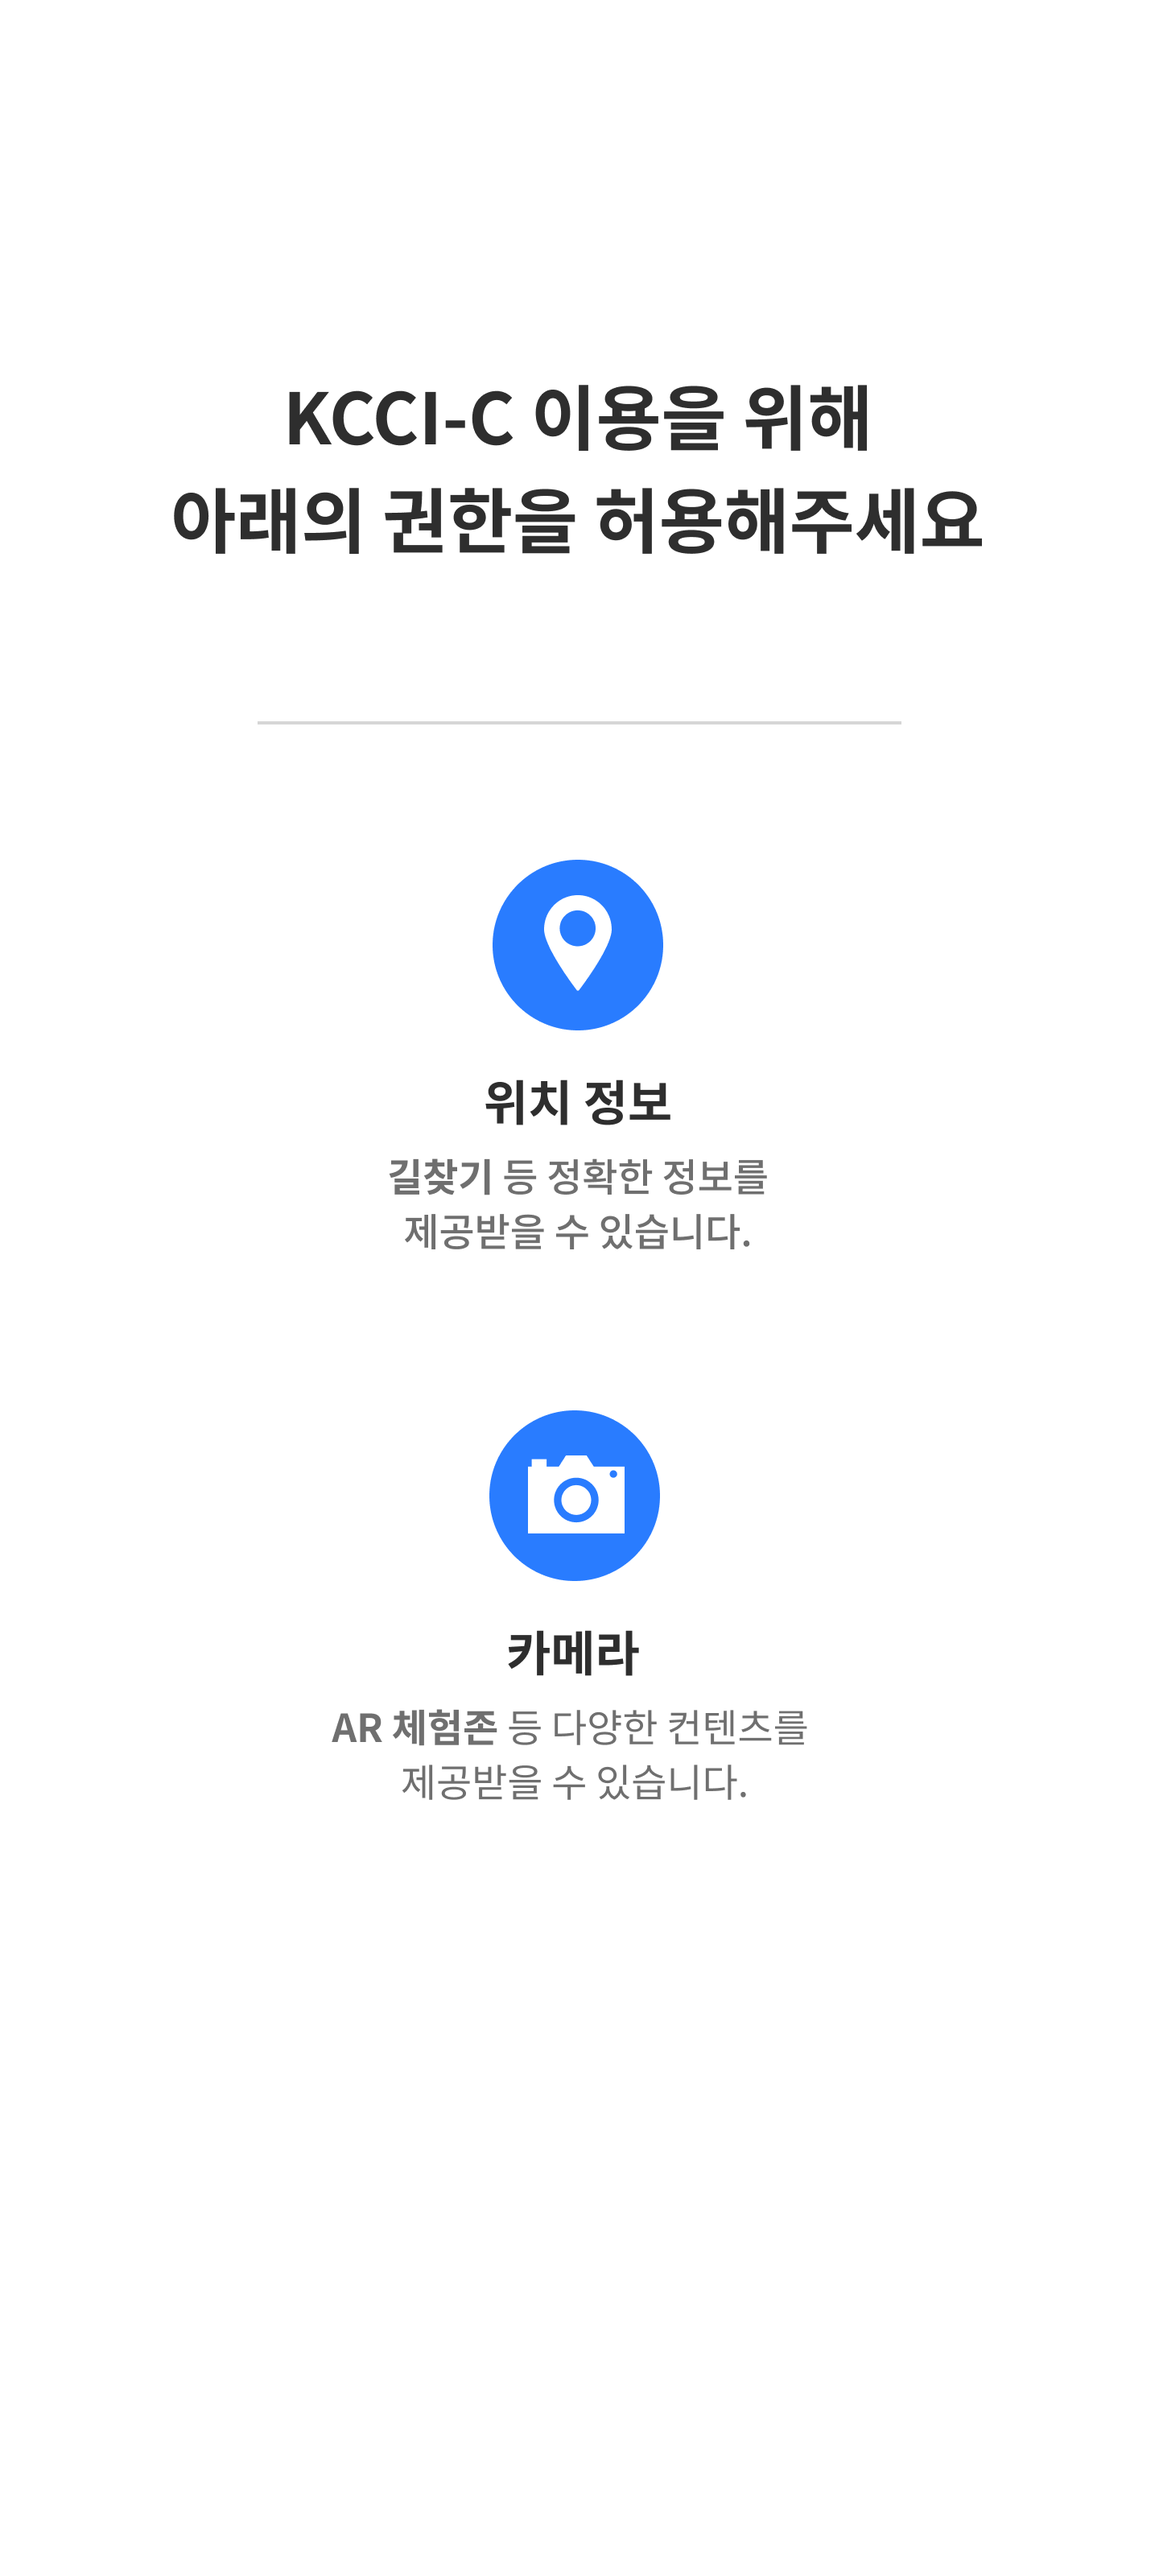
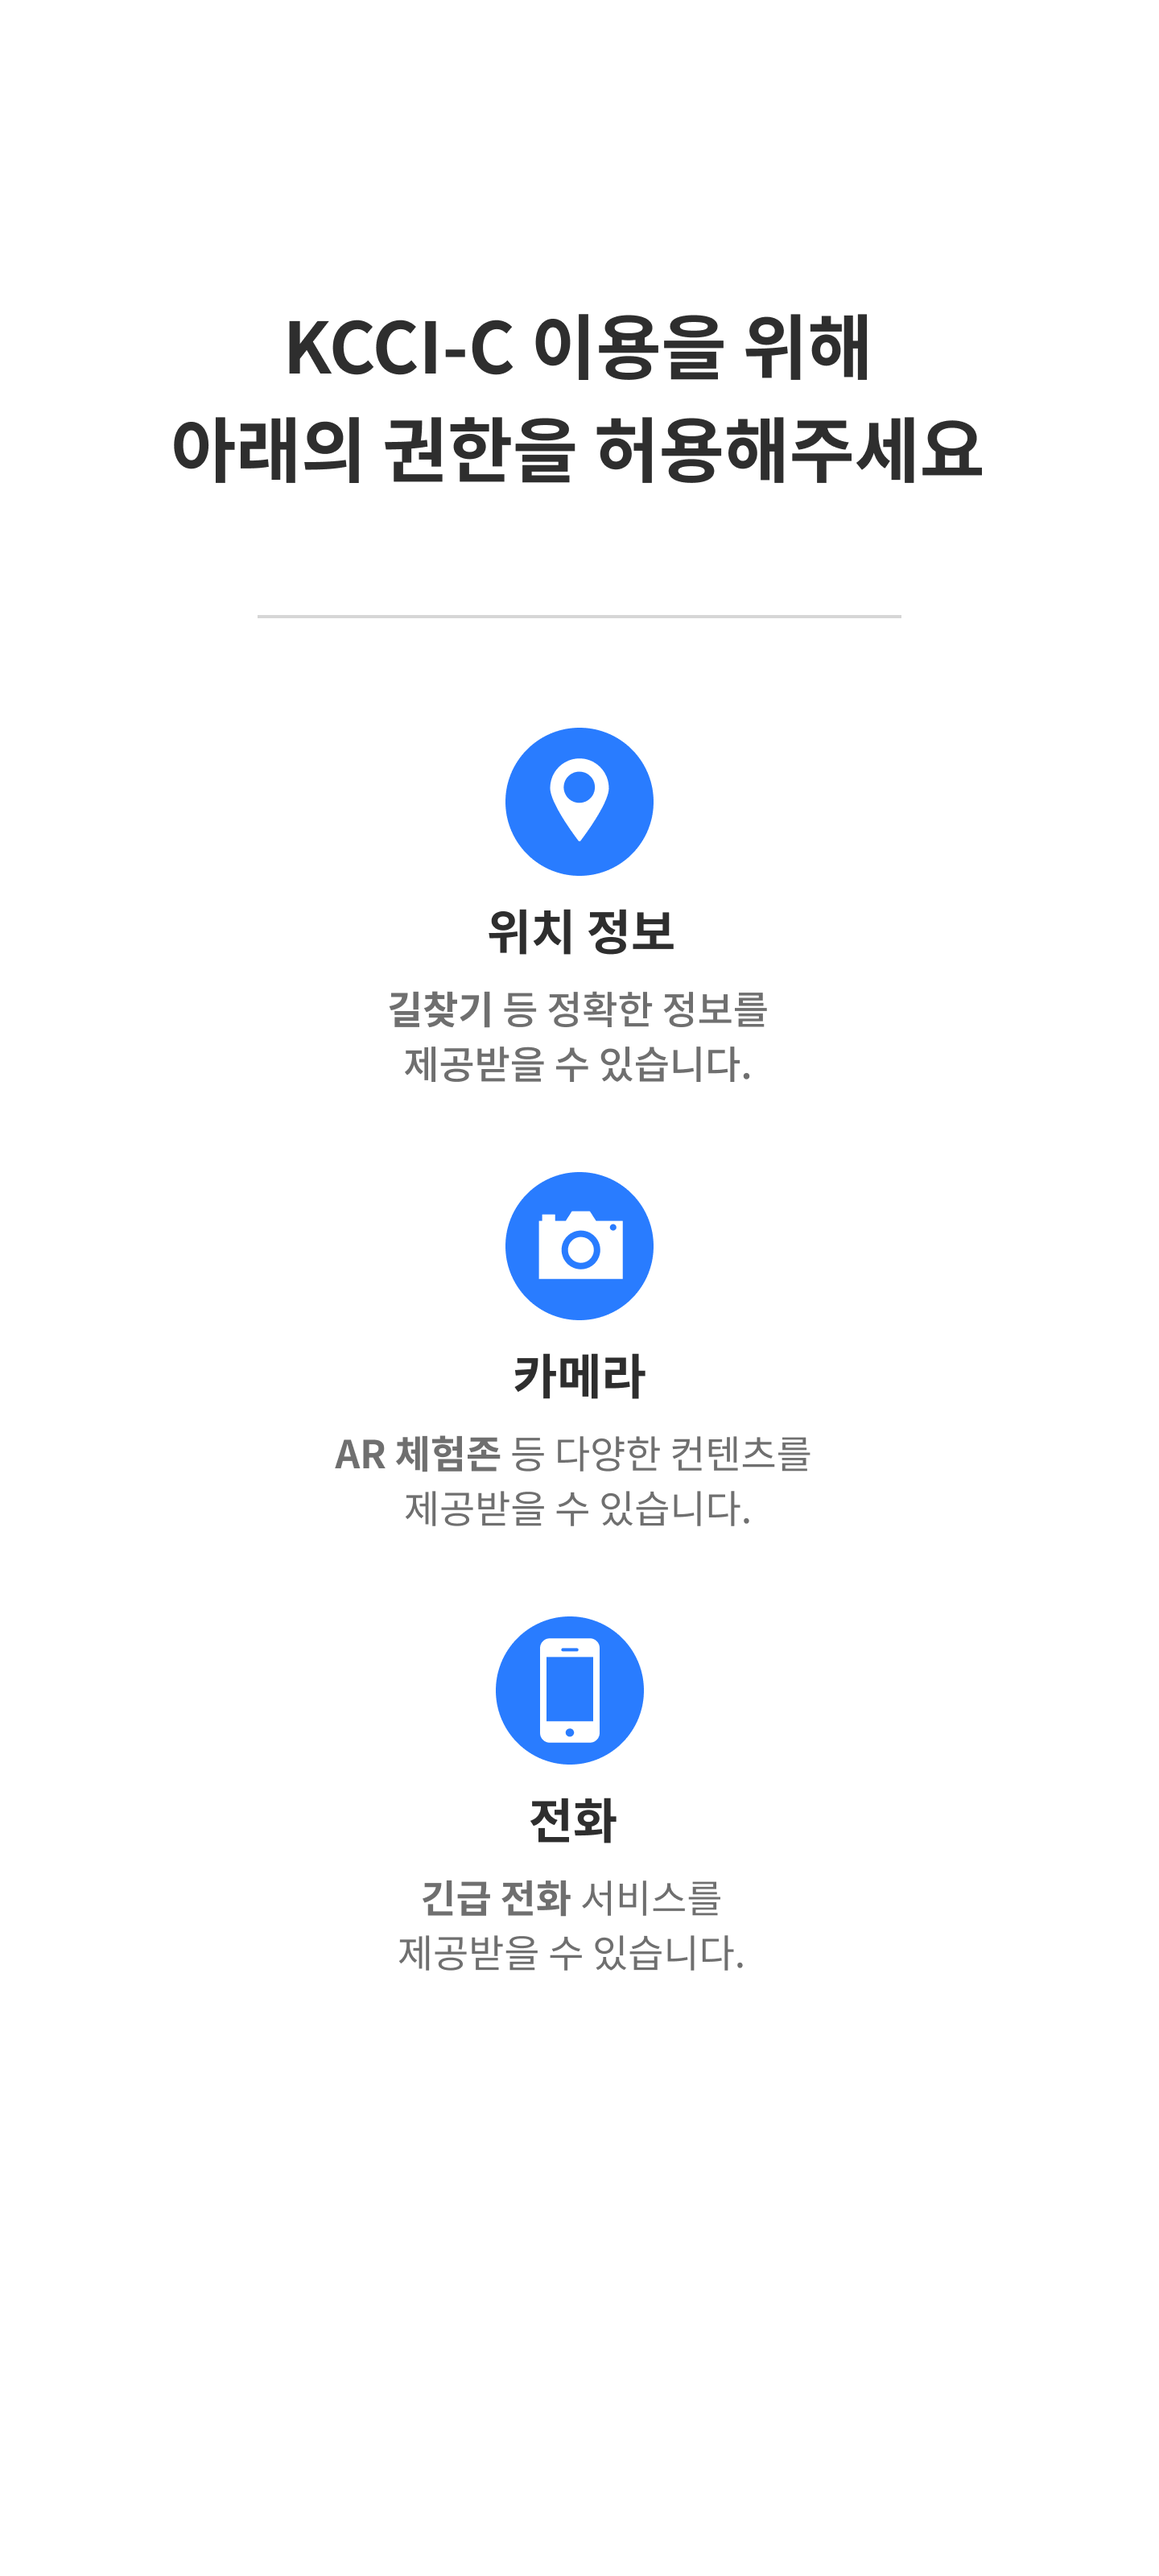
feat: Emergency Call Button

diff --git a/DirectionAR/Assets/Scripts/UI/ButtonMapping/UI_HeaderButton.cs b/DirectionAR/Assets/Scripts/UI/ButtonMapping/UI_HeaderButton.cs
@@ -3,6 +3,7 @@ using System.Collections.Generic;
 using UnityEngine;
 using System.Linq;
 using Unity.VisualScripting;
+using UnityEngine.Android;
 
 public class UI_HeaderButton : UI_Scene
 {
@@ -83,7 +84,7 @@ public class UI_HeaderButton : UI_Scene
         if (Managers.UI._popupStack.Count < 2)
         {
             Managers.UI.CloseAllPopupUI();
-            Managers.Resource.Destroy(GameObject.Find("Header"));
+            Managers.Resource.Destroy(GameObject.Find("Header")); 
             BaseScene.SceneType = Define.SceneType.Main;
         }
 
@@ -93,8 +94,17 @@ public class UI_HeaderButton : UI_Scene
     }
 
     void OnClickEmergencyButton()
-    {
-        Managers.Android.ShowAndroidToastMessage("EmergencyButton");
+    {        
+        bool callPermission = Permission.HasUserAuthorizedPermission(Define.Call.CallPermission);
+
+        if(!callPermission)
+        {
+            Managers.UI.ShowPopupUI<UI_Popup>("ConsentCallPopUp");
+        }
+        else
+        {
+            Managers.Android.EmergencyDialer(Define.Call.EmergencyNumber);
+        }
     }
 }
 

diff --git a/DirectionAR/Assets/Scripts/UI/ButtonMapping/UI_ConsentCallButton.cs b/DirectionAR/Assets/Scripts/UI/ButtonMapping/UI_ConsentCallButton.cs
@@ -5,7 +5,7 @@ using UnityEngine;
 using UnityEngine.Android;
 using UnityEngine.SceneManagement;
 
-public class UI_ConsentCameraButton : UI_Popup
+public class UI_ConsentCallButton : UI_Popup
 {
     enum Buttons
     {
@@ -20,6 +20,8 @@ public class UI_ConsentCameraButton : UI_Popup
 
         BindButton(typeof(Buttons));
 
+        BaseScene.SceneType = Define.SceneType.Call;
+
         BindEvent(GetButton((int)Buttons.AllowButton).gameObject, OnClickAllowButton);
         BindEvent(GetButton((int)Buttons.CloseButton).gameObject, OnClickCloseButton);
 
@@ -28,9 +30,9 @@ public class UI_ConsentCameraButton : UI_Popup
 
     void OnClickAllowButton()
     {
-        if(!Managers.Android.CheckPerm(Permission.Camera))
+        if(!Managers.Android.CheckPerm(Define.Call.CallPermission))
         {
-            StartCoroutine(Managers.Android.SetPermission(Permission.Camera));
+            StartCoroutine(Managers.Android.SetPermission(Define.Call.CallPermission));
             ClosePopupUI();
         }
         else

diff --git a/DirectionAR/Assets/Scripts/UI/ButtonMapping/UI_ConsentInitPopup.cs b/DirectionAR/Assets/Scripts/UI/ButtonMapping/UI_ConsentInitPopup.cs
@@ -27,9 +27,16 @@ public class UI_ConsentInitPopup : UI_Popup
     {
         bool camPermission = Permission.HasUserAuthorizedPermission(Permission.Camera);
         bool gpsPermission = Permission.HasUserAuthorizedPermission(Permission.FineLocation);
-        
-        if (!camPermission)
+        bool callPermission = Permission.HasUserAuthorizedPermission(Define.Call.CallPermission);
+
+        if (!callPermission)
+        {
+            Permission.RequestUserPermission(Define.Call.CallPermission);
+        }
+        if(!camPermission)
+        {
             Permission.RequestUserPermission(Permission.Camera);
+        }
         if (!gpsPermission)
         {
             Permission.RequestUserPermission(Permission.FineLocation);

diff --git a/DirectionAR/Assets/Scripts/UI/ButtonMapping/UI_MainButton.cs b/DirectionAR/Assets/Scripts/UI/ButtonMapping/UI_MainButton.cs
@@ -1,6 +1,7 @@
 using System.Collections;
 using System.Collections.Generic;
 using UnityEngine;
+using UnityEngine.Android;
 using UnityEngine.UI;
 
 public class UI_MainButton : UI_Scene
@@ -65,7 +66,16 @@ public class UI_MainButton : UI_Scene
 
     void OnClickEmergencyButton()
     {
-        Managers.Android.ShowAndroidToastMessage("OnClickEmergencyButton");
+        bool callPermission = Permission.HasUserAuthorizedPermission(Define.Call.CallPermission);
+
+        if(!callPermission)
+        {
+            Managers.UI.ShowPopupUI<UI_Popup>("ConsentCallPopUp");
+        }
+        else
+        {
+            Managers.Android.EmergencyDialer(Define.Call.EmergencyNumber);
+        }
     }
 
     void OnClickMagnifierButton()

diff --git a/DirectionAR/Assets/Scripts/UI/ButtonMapping/UI_ConsentGPSButton.cs b/DirectionAR/Assets/Scripts/UI/ButtonMapping/UI_ConsentGPSButton.cs
@@ -9,6 +9,7 @@ public class UI_ConsentGPSButton : UI_Popup
     enum Buttons
     { 
         AllowButton,
+        CloseButton,
     }
 
     public override bool Init()
@@ -19,6 +20,7 @@ public class UI_ConsentGPSButton : UI_Popup
         BindButton(typeof(Buttons));
 
         BindEvent(GetButton((int)Buttons.AllowButton).gameObject, OnClickAllowButton);
+        BindEvent(GetButton((int)Buttons.CloseButton).gameObject, OnClickCloseButton);
 
         return true;
     }
@@ -34,5 +36,10 @@ public class UI_ConsentGPSButton : UI_Popup
         {
             ClosePopupUI();
         }
+    }
+
+    void OnClickCloseButton()
+    {
+        ClosePopupUI();
     }
 }

diff --git a/DirectionAR/Assets/Scripts/Utils/Define.cs b/DirectionAR/Assets/Scripts/Utils/Define.cs
@@ -5,7 +5,7 @@ using UnityEngine;
 
 public class Define
 {
-	public enum SceneNum
+    public enum SceneNum
 	{
 		Consent,
 		Awake,
@@ -30,6 +30,7 @@ public class Define
 		ARCamera,
 		Street,
 		ARNavigation,
+		Call,
 	}
 
 	public enum Sound
@@ -37,5 +38,14 @@ public class Define
 		Bgm,
 		Effect,
 		Max,
+	}
+
+	public struct Call
+	{
+		public const string CallPermission = "android.permission.CALL_PHONE";
+		
+		public const string TestNumber = "01087491220";
+		public const string TestNumber2 = "01028552569";
+		public const string EmergencyNumber = "112";
 	}
 }

diff --git a/DirectionAR/Assets/Scripts/Scene/ConsentScene.cs b/DirectionAR/Assets/Scripts/Scene/ConsentScene.cs
@@ -17,7 +17,7 @@ public class ConsentScene : BaseScene
         if (!PlayerPrefs.HasKey("isFirstRun"))
         {
             PlayerPrefs.SetInt("isFirstRun", 1);
-            Managers.UI.ShowPopupUI<UI_Popup>("ConsentInitPopup");
+            Managers.UI.ShowPopupUI<UI_Popup>("ConsentInitPopUp");
         }
         else
             SceneManager.LoadScene((int)Define.SceneNum.Awake);
